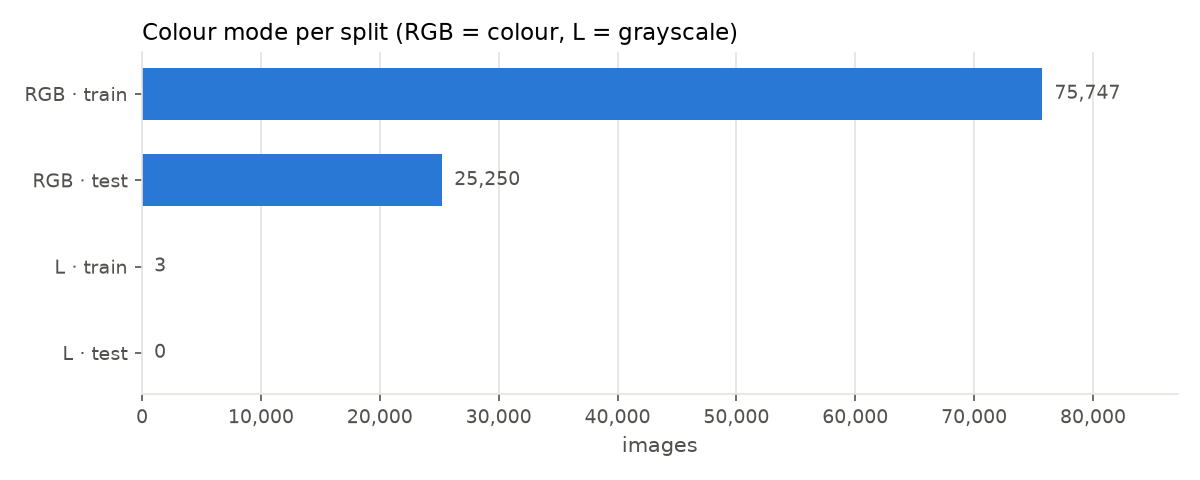
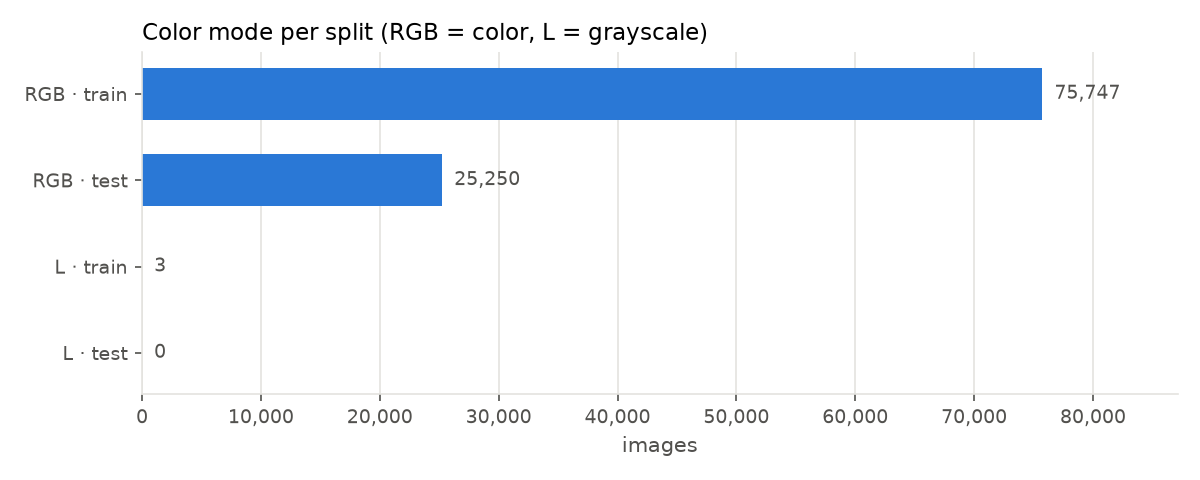
Use US English spelling

Changed region(s): [[0.1542, 0.0312, 0.6167, 0.0938]]

diff --git a/src/plot_profile.py b/src/plot_profile.py
@@ -16,7 +16,7 @@ from matplotlib.ticker import StrMethodFormatter
 
 from dataset_utils import OUTPUTS, REPORTS
 
-# Same colours as experiments/jpeg_png_experiment.py
+# Same colors as experiments/jpeg_png_experiment.py
 SPLIT_COLORS = {"train": "#2a78d6", "test": "#eb6834"}
 BAR = "#2a78d6"
 INK, GRID, SURFACE = "#52514e", "#e4e3df", "#ffffff"
@@ -49,7 +49,7 @@ def save(fig: plt.Figure, path: Path) -> None:
 
 
 def plot_short_side(df: pd.DataFrame, path: Path) -> None:
-    """Histogram of the short side, with the two most common sizes labelled."""
+    """Histogram of the short side, with the two most common sizes labeled."""
     short = df[["width", "height"]].min(axis=1)
     long_512_pct = (df[["width", "height"]].max(axis=1) == 512).mean() * 100
     bins = np.arange(short.min() // 8 * 8, 512 + 9, 8)
@@ -108,7 +108,7 @@ def plot_file_size(df: pd.DataFrame, path: Path) -> None:
 
 
 def plot_width_height(df: pd.DataFrame, path: Path) -> None:
-    """One dot per distinct width x height, coloured by how many images have it."""
+    """One dot per distinct width x height, colored by how many images have it."""
     sizes = df.groupby(["width", "height"]).size().reset_index(name="n")
     sizes = sizes.sort_values("n")  # most common drawn last, on top
     n_land = int((df["width"] > df["height"]).sum())
@@ -153,7 +153,7 @@ def plot_width_height(df: pd.DataFrame, path: Path) -> None:
 
 
 def plot_mode(df: pd.DataFrame, path: Path) -> None:
-    """Image count per colour mode and split; counts printed since tiny bars vanish."""
+    """Image count per color mode and split; counts printed since tiny bars vanish."""
     counts = pd.crosstab(df["mode"], df["split"]).reindex(
         columns=list(SPLIT_COLORS), fill_value=0
     )
@@ -175,7 +175,7 @@ def plot_mode(df: pd.DataFrame, path: Path) -> None:
     ax.xaxis.set_major_formatter(THOUSANDS)
     style_axes(
         ax,
-        "Colour mode per split (RGB = colour, L = grayscale)",
+        "Color mode per split (RGB = color, L = grayscale)",
         "images",
         "",
         grid="x",

diff --git a/README.md b/README.md
@@ -13,7 +13,7 @@ The first target is [Food-101](https://data.vision.ee.ethz.ch/cvl/datasets_extra
 ## Motivation
 
 - **Duplicates waste compute and bias training:** the same image seen many times counts more than it should.
-- **Train/test leakage inflates accuracy:** if a test image, or a resized copy of it, is also in the training set, the model is partly evaluated on memory rather than generalisation.
+- **Train/test leakage inflates accuracy:** if a test image, or a resized copy of it, is also in the training set, the model is partly evaluated on memory rather than generalization.
 - **Label noise and off-topic images:** an image can carry the wrong class or show no food at all; the pipeline flags them so they can be reviewed or removed.
 
 ---
@@ -22,12 +22,12 @@ The first target is [Food-101](https://data.vision.ee.ethz.ch/cvl/datasets_extra
 
 | # | Stage | Method | Output | Status |
 |---|---|---|---|---|
-| 1 | Dataset profile | Split and metadata checks; formats, colour modes, resolutions, file sizes | Data profile | ✅ done |
+| 1 | Dataset profile | Split and metadata checks; formats, color modes, resolutions, file sizes | Data profile | ✅ done |
 | 2 | Corruption and exact duplicates | Full decode with Pillow, SHA-256 hashing | Corruption and exact-duplicate report | ⚪ planned |
-| 3 | Near-duplicates | Perceptual hashing (dHash, pHash), Hamming distance, 200 hand-labelled pairs | Near-duplicate list with measured precision | ⚪ planned |
+| 3 | Near-duplicates | Perceptual hashing (dHash, pHash), Hamming distance, 200 hand-labeled pairs | Near-duplicate list with measured precision | ⚪ planned |
 | 4 | Embeddings | Pretrained vision encoder (open_clip) | Embeddings for the full dataset | ⚪ planned |
 | 5 | Semantic duplicates | Cosine similarity, threshold from a precision/recall curve | Semantic duplicates with precision and recall | ⚪ planned |
-| 6 | Nearest-neighbour search at scale | Exact vs approximate search (FAISS) | Speed/recall trade-off table | ⚪ planned |
+| 6 | Nearest-neighbor search at scale | Exact vs approximate search (FAISS) | Speed/recall trade-off table | ⚪ planned |
 | 7 | Curation table | Columnar storage, one row per image, one column per signal | Parquet table | ⚪ planned |
 | 8 | Leakage ablation | Linear probe on embeddings, original vs deduplicated split, 3 seeds | Accuracy difference with variance | ⚪ planned |
 | 9 | Report and design doc | Constraints, options, decision, measured trade-offs | Audit report and design doc | ⚪ planned |
@@ -69,13 +69,13 @@ Script: [`src/profile_images.py`](src/profile_images.py) (reads image headers on
 | Short side | 122–512 px; 512 px (square) for 62%, 384 px for 21% |
 | Orientation | 62,206 square, 26,219 landscape, 12,575 portrait |
 | Format | JPEG (101,000) |
-| Colour mode | RGB (100,997), L / grayscale (3, all in train) |
+| Color mode | RGB (100,997), L / grayscale (3, all in train) |
 | File size (1 KB = 1000 bytes) | median 49.6 KB, range 8.7–215.7 KB, 5.12 GB in total |
 | File size, train vs test | near-identical distribution (median 49.6 KB train, 49.5 KB test; [plot](reports/profile_file_size.png)) |
 
-The 3 grayscale images are not food photos (two show people, one shows text). They were checked by hand and are listed in [`annotations/flagged_images.csv`](annotations/flagged_images.csv). The colour-mode check only finds images stored as grayscale; non-food images stored as RGB need later stages.
+The 3 grayscale images are not food photos (two show people, one shows text). They were checked by hand and are listed in [`annotations/flagged_images.csv`](annotations/flagged_images.csv). The color-mode check only finds images stored as grayscale; non-food images stored as RGB need later stages.
 
-Report: [`profile_summary.csv`](reports/profile_summary.csv) (one row per check). Plots from [`src/plot_profile.py`](src/plot_profile.py): [short side](reports/profile_short_side.png), [width × height](reports/profile_width_height.png), [file size per split](reports/profile_file_size.png), [colour mode](reports/profile_mode.png). The per-image table (`outputs/profile_images.csv`) is regenerated by the script and not committed.
+Report: [`profile_summary.csv`](reports/profile_summary.csv) (one row per check). Plots from [`src/plot_profile.py`](src/plot_profile.py): [short side](reports/profile_short_side.png), [width × height](reports/profile_width_height.png), [file size per split](reports/profile_file_size.png), [color mode](reports/profile_mode.png). The per-image table (`outputs/profile_images.csv`) is regenerated by the script and not committed.
 
 ---
 
